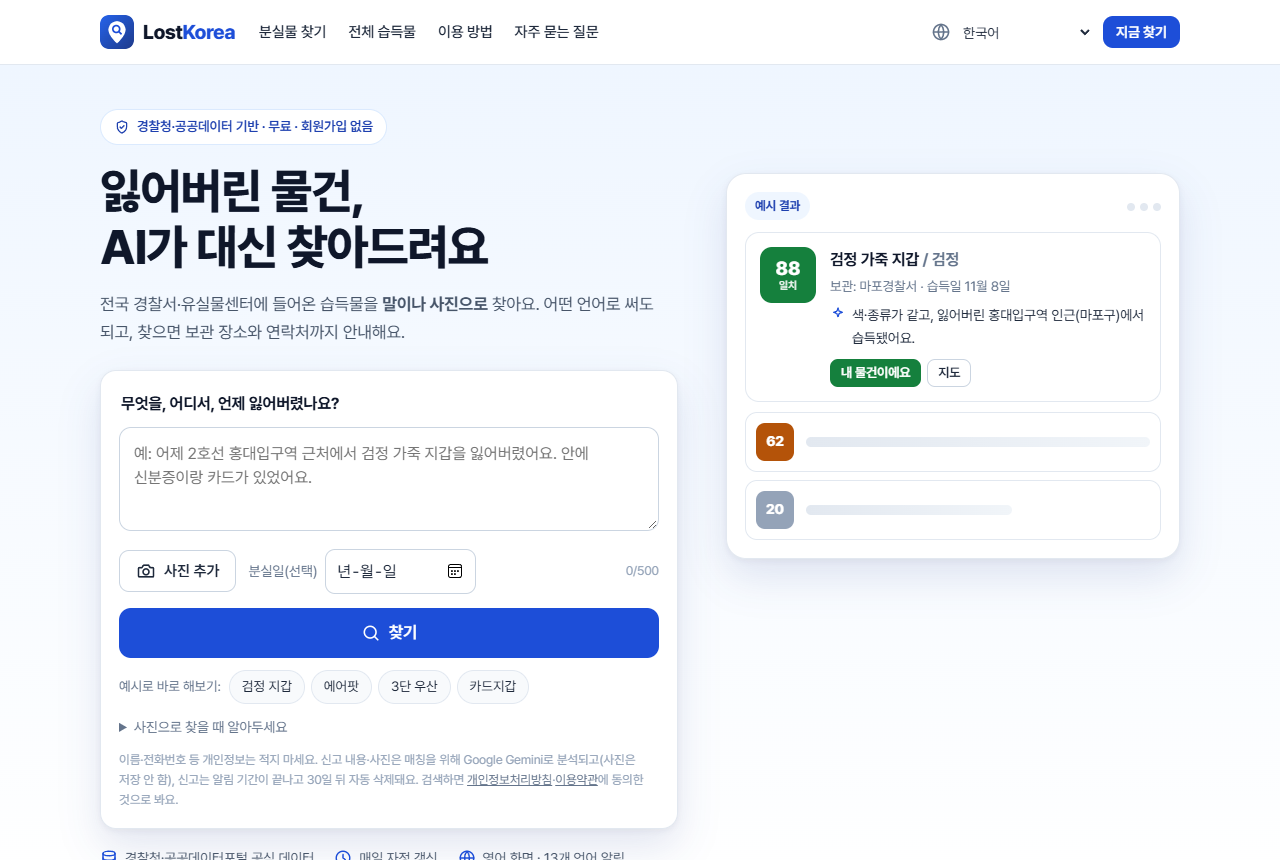
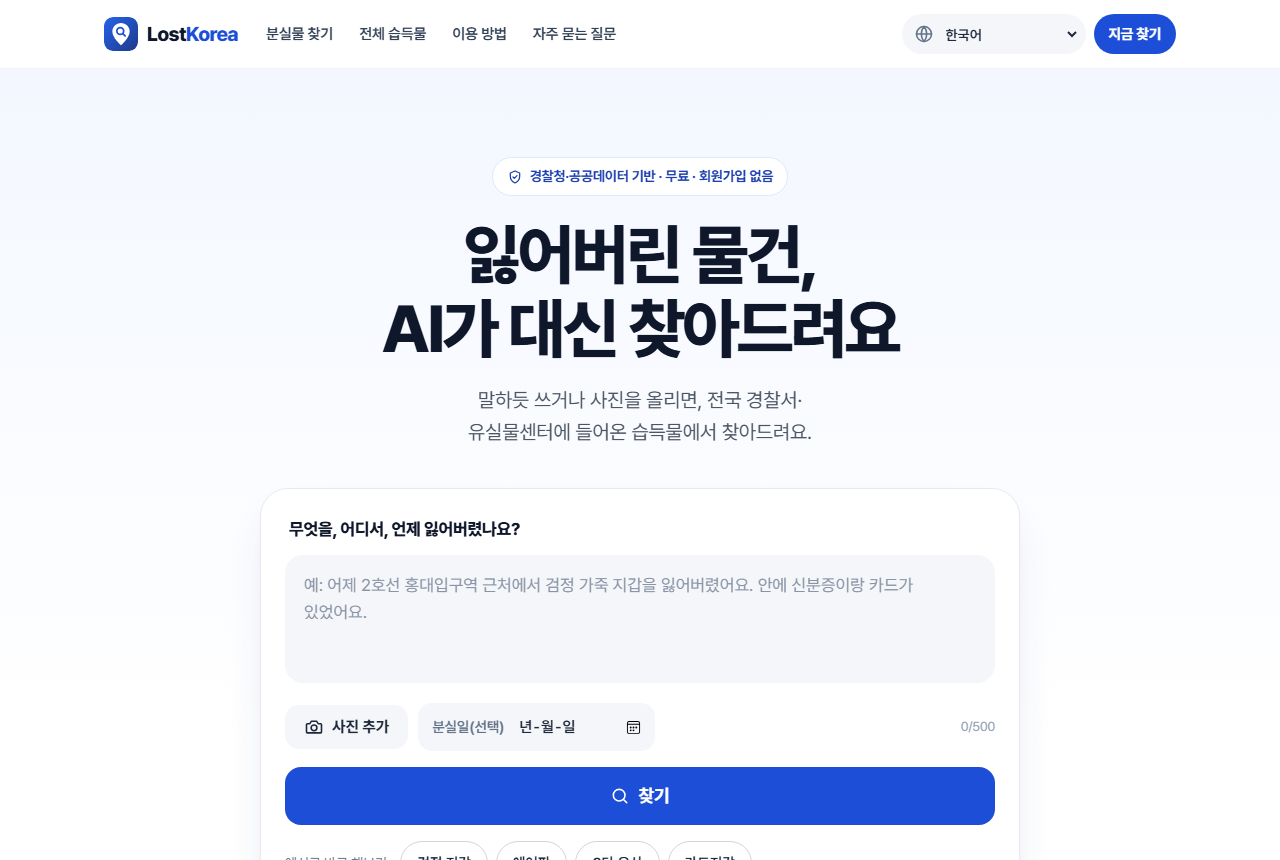
[FIND-92] README 스크린샷 6장을 새 디자인 운영 화면으로 교체 [skip ci]

diff --git a/README.md b/README.md
@@ -18,9 +18,9 @@
 >
 > 📄 모든 결정·실험·수치는 [`docs/PROGRESS.md`](docs/PROGRESS.md), 배포는 [`docs/DEPLOY.md`](docs/DEPLOY.md), 서비스화 남은 일은 [`docs/LAUNCH.md`](docs/LAUNCH.md).
 
-![LostKorea 홈 — 첫 화면에서 바로 검색, 오른쪽은 결과 예시](docs/screenshots/hero.png)
+![LostKorea 홈 — 첫 화면에서 바로 검색](docs/screenshots/hero.png)
 
-*스크린샷은 모두 2026-11-09 운영 사이트를 그대로 캡처(검색 결과는 실제 습득물 데이터, 캡처용 신고는 바로 삭제).*
+*스크린샷은 모두 2026-11-13 운영 사이트를 그대로 캡처(검색 결과·메일은 실제 습득물 데이터, 캡처용 신고는 바로 삭제 — 수령 안내는 확인 처리 없이 화면만).*
 
 ---
 
@@ -45,13 +45,13 @@
 
 ## 📸 화면
 
-| AI 매칭 결과 (일치 점수·근거·보관기관·전화·지도) | 전체 습득물 (키워드·지역·날짜 필터) |
+| AI 매칭 결과 (일치 점수·근거·보관기관·전화·지도·원본 글) | 전체 습득물 (사진 미리보기·사진 있는 것만·정렬·원본 글) |
 |:---:|:---:|
 | [![AI 매칭](docs/screenshots/ai-match.png)](docs/screenshots/ai-match.png) | [![전체 습득물](docs/screenshots/browse.png)](docs/screenshots/browse.png) |
 | **영어 화면** (휴대폰 · 외국어 브라우저는 자동 이동) | **알림 메일** (같은 검색 결과로 만든 실제 메일 HTML) |
 | [![영어 화면](docs/screenshots/multilingual.png)](docs/screenshots/multilingual.png) | [![알림 메일](docs/screenshots/email.png)](docs/screenshots/email.png) |
 
-| [내 물건이에요] → 수령 안내 (전화·여권 지참·네이버/구글 지도·1330 통역·lost112) |
+| [내 물건이에요] → 수령 안내 (전화·여권 지참·네이버/구글 지도·1330 통역·경찰청 원본 글) |
 |:---:|
 | [![수령 안내](docs/screenshots/retrieval.png)](docs/screenshots/retrieval.png) |
 
